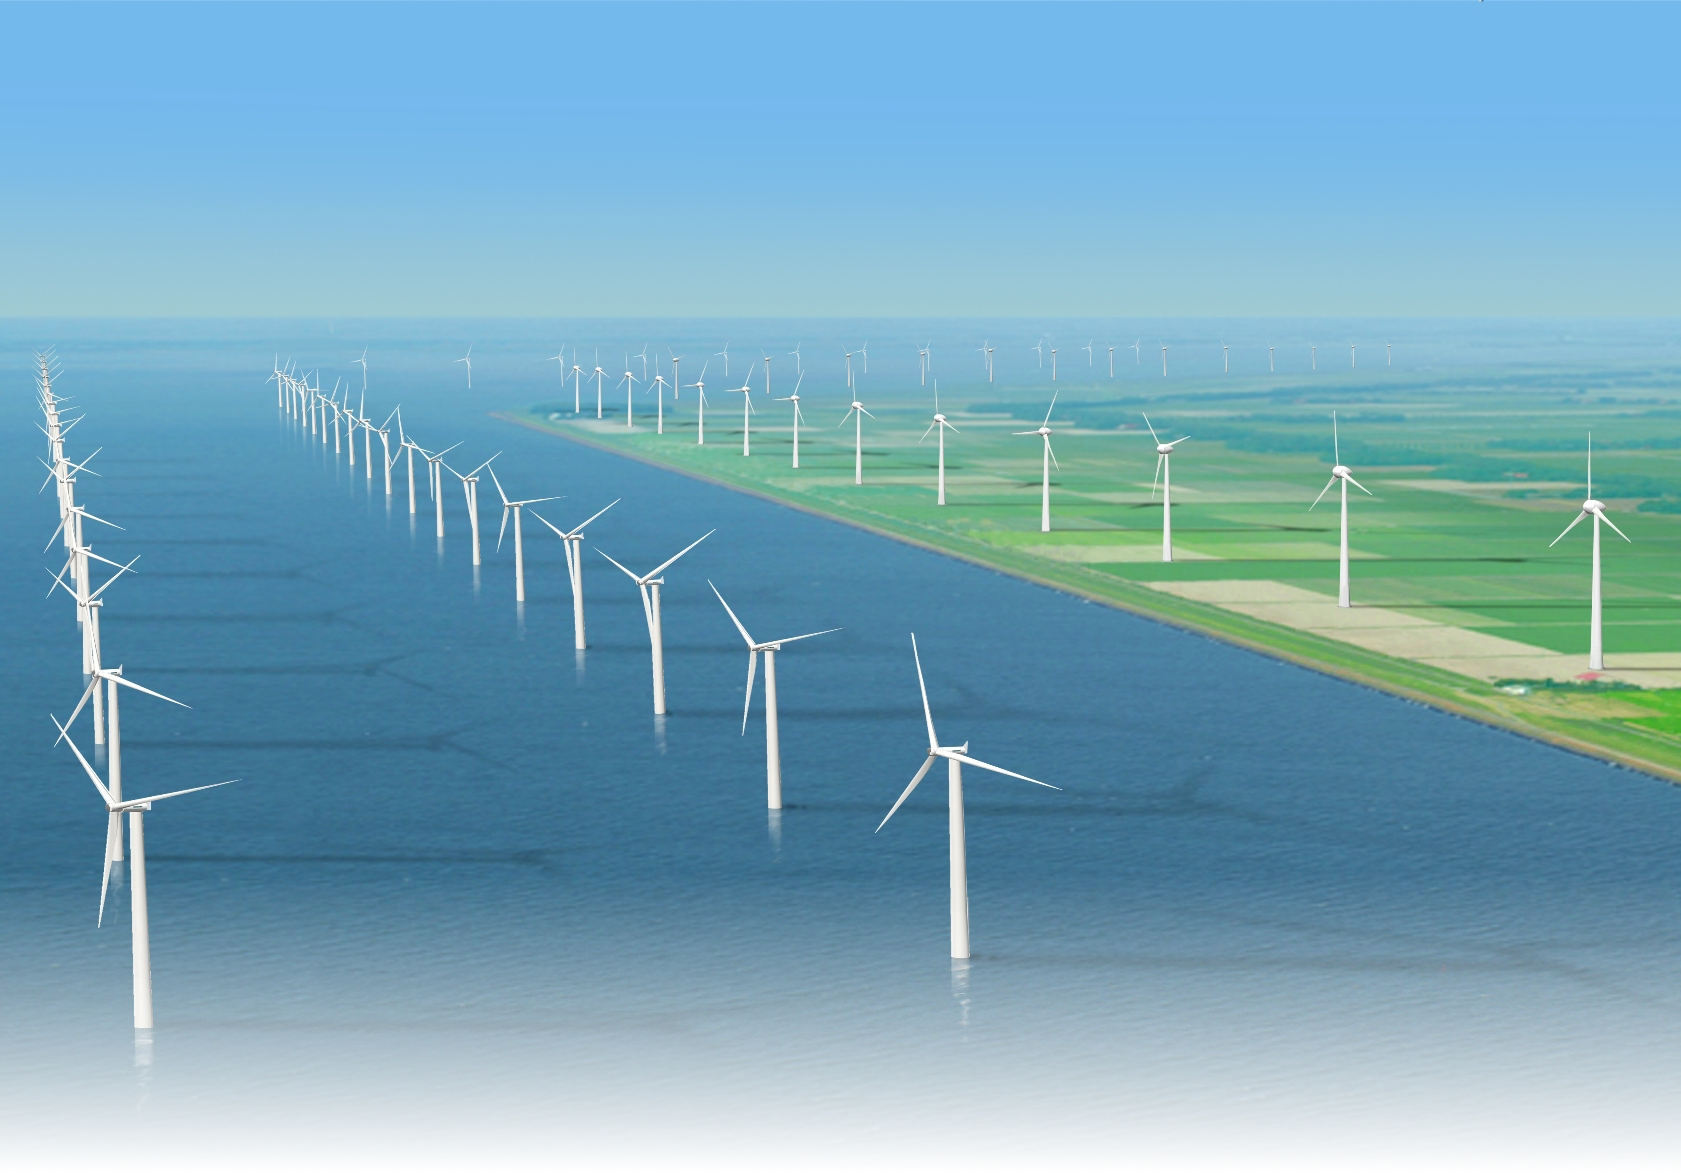
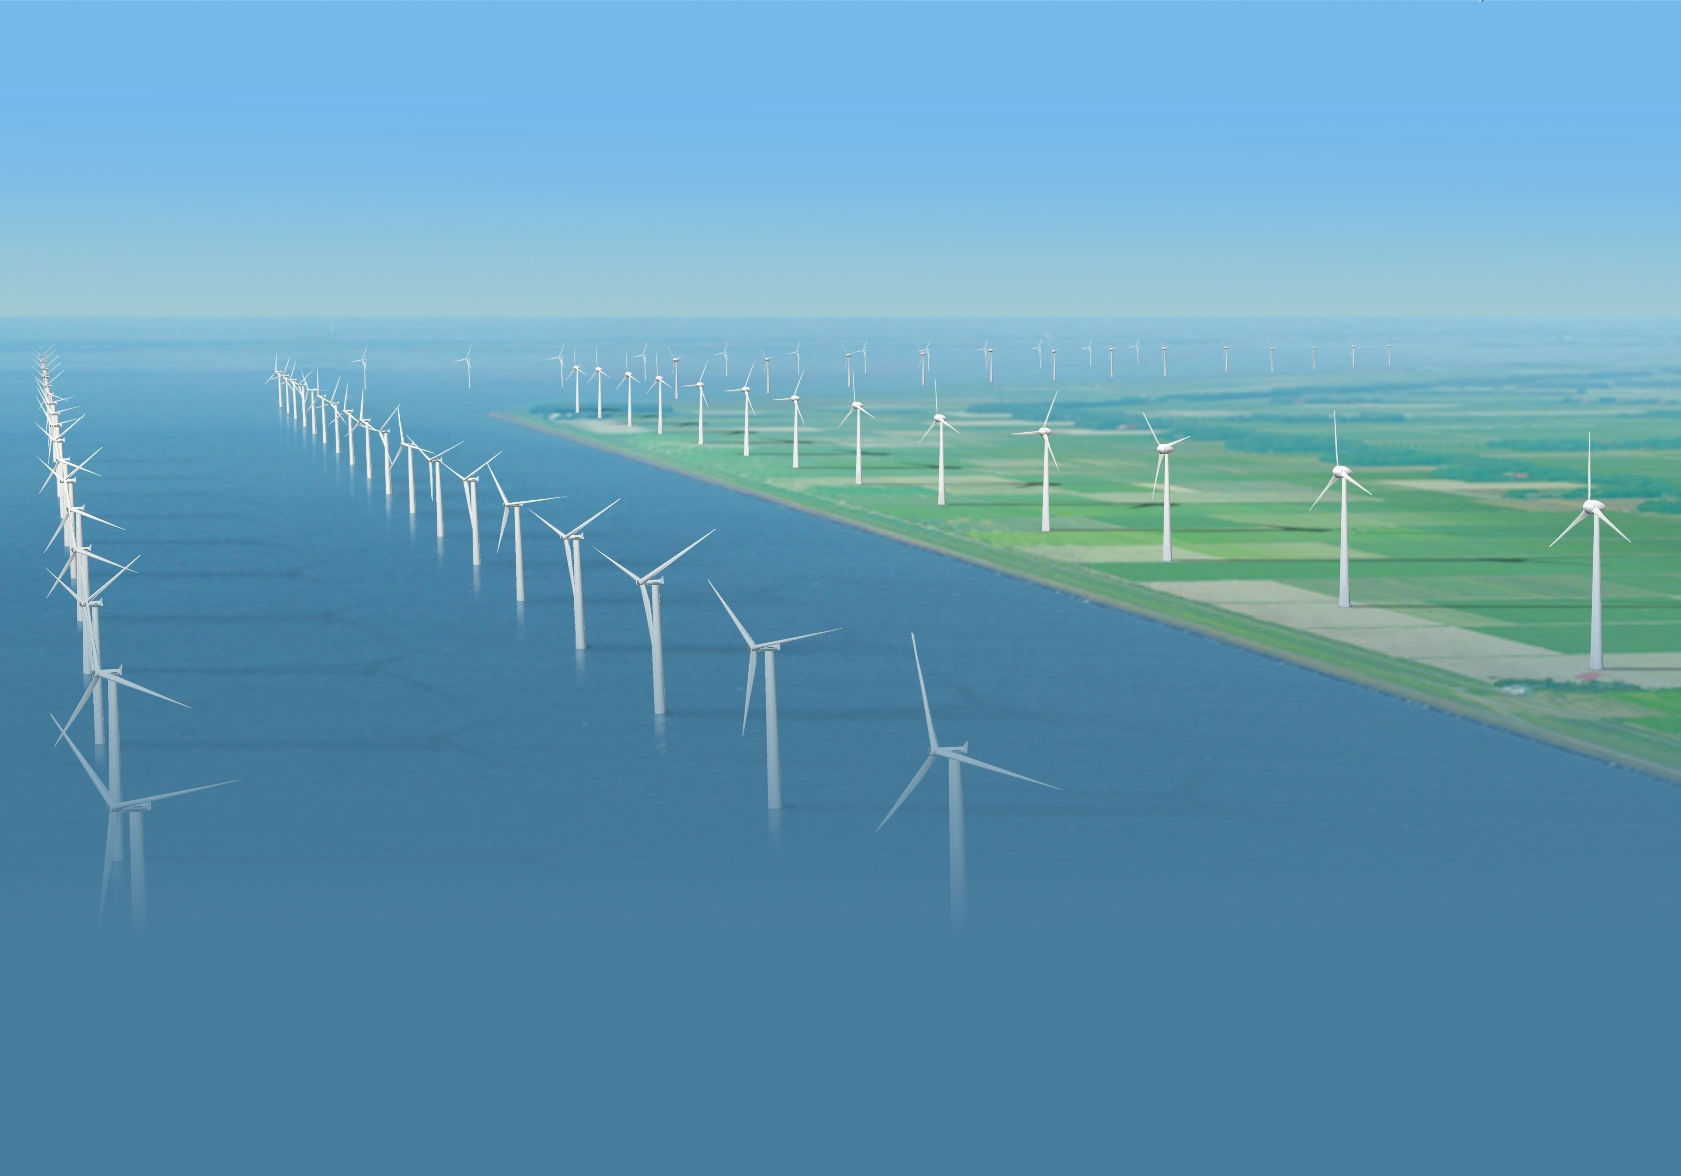
background and mobile menu

diff --git a/app/index.html b/app/index.html
@@ -13,15 +13,15 @@
 <nav class="navbar navbar-default" role="navigation">
     <div class="container-fluid">
         <div class="navbar-header">
-            <button type="button" class="navbar-toggle collapsed" data-toggle="collapse" data-target="#navbar" aria-expanded="false" aria-controls="navbar">
+            <button class="navbar-toggle" type="button" ng-init="isCollapsed = true" ng-click="isCollapsed = !isCollapsed">
                 <span class="sr-only">Toggle navigation</span>
                 <span class="icon-bar"></span>
                 <span class="icon-bar"></span>
                 <span class="icon-bar"></span>
             </button>
-            <a class="navbar-brand" href="#">Electric Cars</a>
+            <a class="navbar-brand" href="#"><span class="fa fa-bolt"></span> ElectriCar <span class="fa fa-automobile"></span></a>
         </div>
-        <div id="navbar" class="navbar-collapse collapse">
+        <div collapse="isCollapsed" class="navbar-collapse bs-js-navbar-collapse">
             <ul class="nav navbar-nav">
                 <li ng-class="{'active':isPath('/main')}"><a href="#">Overview</a></li>
                 <li class="dropdown" ng-class="{'active':isPath('/car')}">
@@ -36,10 +36,10 @@
             <ul class="nav navbar-nav navbar-right">
                 <li ng-class="{'active':isPath('/about')}"><a href="#/about">About</a></li>
             </ul>
-        </div><!--/.nav-collapse -->
-    </div><!--/.container-fluid -->
+        </div><!-- /.nav-collapse -->
+    </div><!-- /.container-fluid -->
 </nav>
-<div ng-view="" class="container-fluid"></div>
+<div ng-view="" class="container-fluid" style="padding-top:50px;"></div>
 
 <!-- inject:js -->
 <!-- endinject -->

diff --git a/app/styles/ecompare.css b/app/styles/ecompare.css
@@ -1,8 +1,12 @@
+body {
+    background-color: #487c9d;
+}
+
 .quartett-board {
     background: url('../images/wind-energie.jpg') no-repeat;
     min-height: 1400px;
     background-size: 100%;
-    padding: 50px;
+    padding: 20px;
 }
 
 .quartett-card {
@@ -50,15 +54,9 @@ table.quartett-card-techpoints .tech-value {
 
 .view-container {
     padding: 20px;
-    margin-top: 50px;
     min-height: 1400px;
     background: url('../images/bg2_solar.jpg') no-repeat 0 0;
     background-size: 100%;
-}
-
-.container-fluid {
-    margin: 0;
-    padding: 0;
 }
 
 .car-title {
@@ -315,11 +313,10 @@ p.plug-choice-info {
 .navbar {
     z-index: 1000;
     position: fixed;
-    top: 0;
-    left: 0;
     width: 100%;
     margin-bottom: 0;
 }
+
 
 .navbar-brand {
     padding-left: 30px;

diff --git a/app/scripts/car/car.tpl.html b/app/scripts/car/car.tpl.html
@@ -1,6 +1,6 @@
 <div ng-controller="CarCtrl">
 
-<div class="view-container car-details" ng-show="selectedCar !== undefined">
+<div class="view-container car-details" ng-show="selectedCar !== undefined" style="padding-top: 40px;">
 
 <div class="col-xl-2 col-lg-3 col-sm-4 col-xs-12">
     <div class="info-overview">
